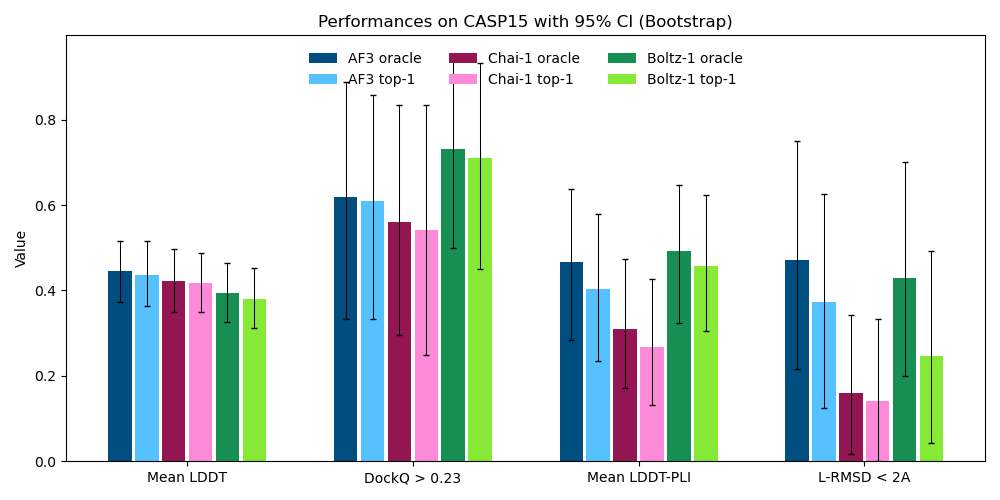
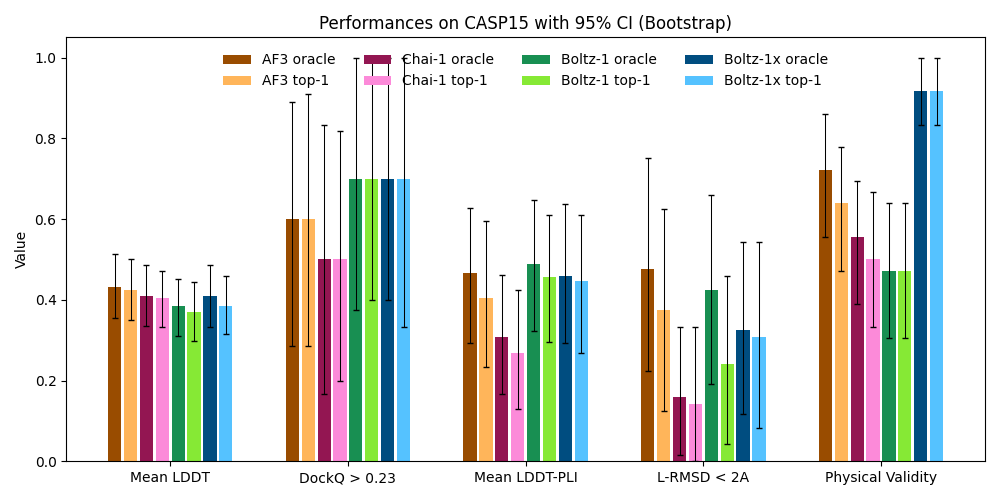
update plots

diff --git a/scripts/eval/aggregate_evals.py b/scripts/eval/aggregate_evals.py
@@ -294,7 +294,16 @@ def compute_boltz_metrics(preds, evals, name):
     return results
 
 
-def eval_models(chai_preds, chai_evals, af3_preds, af3_evals, boltz_preds, boltz_evals):
+def eval_models(
+    chai_preds,
+    chai_evals,
+    af3_preds,
+    af3_evals,
+    boltz_preds,
+    boltz_evals,
+    boltz_preds_x,
+    boltz_evals_x,
+):
     # Load preds and make sure we have predictions for all models
     chai_preds_names = {
         x.name.lower(): x
@@ -311,15 +320,22 @@ def eval_models(chai_preds, chai_evals, af3_preds, af3_evals, boltz_preds, boltz
         for x in Path(boltz_preds).iterdir()
         if not x.name.lower().startswith(".")
     }
+    boltz_preds_names_x = {
+        x.name.lower(): x
+        for x in Path(boltz_preds_x).iterdir()
+        if not x.name.lower().startswith(".")
+    }
 
     print("Chai preds", len(chai_preds_names))
     print("Af3 preds", len(af3_preds_names))
     print("Boltz preds", len(boltz_preds_names))
+    print("Boltzx preds", len(boltz_preds_names_x))
 
     common = (
         set(chai_preds_names.keys())
         & set(af3_preds_names.keys())
         & set(boltz_preds_names.keys())
+        & set(boltz_preds_names_x.keys())
     )
 
     # Remove examples in the validation set
@@ -371,12 +387,34 @@ def eval_models(chai_preds, chai_evals, af3_preds, af3_evals, boltz_preds, boltz
             print(f"Error evaluating Boltz {name}: {e}")
             continue
 
+        try:
+            boltz_results_x = compute_boltz_metrics(
+                boltz_preds_names_x[name],
+                boltz_evals_x,
+                name,
+            )
+        except Exception as e:
+            import traceback
+
+            traceback.print_exc()
+            print(f"Error evaluating Boltzx {name}: {e}")
+            continue
+
         for metric_name in af3_results:
             if metric_name in chai_results and metric_name in boltz_results:
                 if (
-                    af3_results[metric_name]["len"] == chai_results[metric_name]["len"]
-                    and af3_results[metric_name]["len"]
-                    == boltz_results[metric_name]["len"]
+                    (
+                        af3_results[metric_name]["len"]
+                        == chai_results[metric_name]["len"]
+                    )
+                    and (
+                        af3_results[metric_name]["len"]
+                        == boltz_results[metric_name]["len"]
+                    )
+                    and (
+                        af3_results[metric_name]["len"]
+                        == boltz_results_x[metric_name]["len"]
+                    )
                 ):
                     results.append(
                         {
@@ -426,6 +464,22 @@ def eval_models(chai_preds, chai_evals, af3_preds, af3_evals, boltz_preds, boltz
                             "value": boltz_results[metric_name]["top1"],
                         }
                     )
+                    results.append(
+                        {
+                            "tool": "Boltz-1x oracle",
+                            "target": name,
+                            "metric": metric_name,
+                            "value": boltz_results_x[metric_name]["oracle"],
+                        }
+                    )
+                    results.append(
+                        {
+                            "tool": "Boltz-1x top-1",
+                            "target": name,
+                            "metric": metric_name,
+                            "value": boltz_results_x[metric_name]["top1"],
+                        }
+                    )
                 else:
                     print(
                         "Different lengths",
@@ -434,6 +488,7 @@ def eval_models(chai_preds, chai_evals, af3_preds, af3_evals, boltz_preds, boltz
                         af3_results[metric_name]["len"],
                         chai_results[metric_name]["len"],
                         boltz_results[metric_name]["len"],
+                        boltz_results_x[metric_name]["len"],
                     )
             else:
                 print(
@@ -442,11 +497,47 @@ def eval_models(chai_preds, chai_evals, af3_preds, af3_evals, boltz_preds, boltz
                     metric_name,
                     metric_name in chai_results,
                     metric_name in boltz_results,
+                    metric_name in boltz_results_x,
                 )
 
     # Write the results to a file, ensure we only keep the target & metrics where we have all tools
     df = pd.DataFrame(results)
     return df
+
+
+def eval_validity_checks(df):
+    # Filter the dataframe to only include the targets in the validity checks
+    name_mapping = {
+        "af3": "AF3 top-1",
+        "chai": "Chai-1 top-1",
+        "boltz1": "Boltz-1 top-1",
+        "boltz1x": "Boltz-1x top-1",
+    }
+    top1 = df[df["model_idx"] == 0]
+    top1 = top1[["tool", "pdb_id", "valid"]]
+    top1["tool"] = top1["tool"].apply(lambda x: name_mapping[x])
+    top1 = top1.rename(columns={"tool": "tool", "pdb_id": "target", "valid": "value"})
+    top1["metric"] = "physical validity"
+    top1["target"] = top1["target"].apply(lambda x: x.lower())
+    top1 = top1[["tool", "target", "metric", "value"]]
+
+    name_mapping = {
+        "af3": "AF3 oracle",
+        "chai": "Chai-1 oracle",
+        "boltz1": "Boltz-1 oracle",
+        "boltz1x": "Boltz-1x oracle",
+    }
+    oracle = df[["tool", "model_idx", "pdb_id", "valid"]]
+    oracle = oracle.groupby(["tool", "pdb_id"])["valid"].max().reset_index()
+    oracle = oracle.rename(
+        columns={"tool": "tool", "pdb_id": "target", "valid": "value"}
+    )
+    oracle["tool"] = oracle["tool"].apply(lambda x: name_mapping[x])
+    oracle["metric"] = "physical validity"
+    oracle = oracle[["tool", "target", "metric", "value"]]
+    oracle["target"] = oracle["target"].apply(lambda x: x.lower())
+    out = pd.concat([top1, oracle])
+    return out
 
 
 def bootstrap_ci(series, n_boot=1000, alpha=0.05):
@@ -461,7 +552,7 @@ def bootstrap_ci(series, n_boot=1000, alpha=0.05):
         boot_means.append(sample.mean())
 
     boot_means = np.array(boot_means)
-    mean_val = np.mean(boot_means)
+    mean_val = np.mean(series)
     lower = np.percentile(boot_means, 100 * alpha / 2)
     upper = np.percentile(boot_means, 100 * (1 - alpha / 2))
     return mean_val, lower, upper
@@ -497,6 +588,8 @@ def plot_data(desired_tools, desired_metrics, df, dataset, filename):
         "Chai-1 top-1",
         "Boltz-1 oracle",
         "Boltz-1 top-1",
+        "Boltz-1x oracle",
+        "Boltz-1x top-1",
     ]
     plot_data = plot_data[tool_order]
     lower_data = lower_data[tool_order]
@@ -508,6 +601,7 @@ def plot_data(desired_tools, desired_metrics, df, dataset, filename):
         "rmsd<2": "L-RMSD < 2A",
         "lddt": "Mean LDDT",
         "dockq_>0.23": "DockQ > 0.23",
+        "physical validity": "Physical Validity",
     }
     plot_data = plot_data.rename(index=renaming)
     lower_data = lower_data.rename(index=renaming)
@@ -516,12 +610,14 @@ def plot_data(desired_tools, desired_metrics, df, dataset, filename):
 
     # Colors
     tool_colors = [
-        "#004D80",  # AF3 oracle
-        "#55C2FF",  # AF3 top-1
+        "#994C00",  # AF3 oracle
+        "#FFB55A",  # AF3 top-1
         "#931652",  # Chai-1 oracle
         "#FC8AD9",  # Chai-1 top-1
         "#188F52",  # Boltz-1 oracle
         "#86E935",  # Boltz-1 top-1
+        "#004D80",  # Boltz-1x oracle
+        "#55C2FF",  # Boltz-1x top-1
     ]
 
     fig, ax = plt.subplots(figsize=(10, 5))
@@ -559,7 +655,7 @@ def plot_data(desired_tools, desired_metrics, df, dataset, filename):
     ax.set_title(f"Performances on {dataset} with 95% CI (Bootstrap)")
 
     plt.tight_layout()
-    ax.legend(loc="lower center", bbox_to_anchor=(0.5, 0.85), ncol=3, frameon=False)
+    ax.legend(loc="lower center", bbox_to_anchor=(0.5, 0.85), ncols=4, frameon=False)
 
     plt.savefig(filename)
     plt.show()
@@ -567,6 +663,7 @@ def plot_data(desired_tools, desired_metrics, df, dataset, filename):
 
 def main():
     eval_folder = "../../boltz_results_final/"
+    output_folder = "../../boltz_results_final/"
 
     # Eval the test set
     chai_preds = eval_folder + "outputs/test/chai"
@@ -578,10 +675,27 @@ def main():
     boltz_preds = eval_folder + "outputs/test/boltz/predictions"
     boltz_evals = eval_folder + "evals/test/boltz"
 
+    boltz_preds_x = eval_folder + "outputs/test/boltzx/predictions"
+    boltz_evals_x = eval_folder + "evals/test/boltzx"
+
+    validity_checks = eval_folder + "physical_checks_test.csv"
+
+    df_validity_checks = pd.read_csv(validity_checks)
+    df_validity_checks = eval_validity_checks(df_validity_checks)
+
     df = eval_models(
-        chai_preds, chai_evals, af3_preds, af3_evals, boltz_preds, boltz_evals
+        chai_preds,
+        chai_evals,
+        af3_preds,
+        af3_evals,
+        boltz_preds,
+        boltz_evals,
+        boltz_preds_x,
+        boltz_evals_x,
     )
-    df.to_csv(eval_folder + "results_test.csv", index=False)
+
+    df = pd.concat([df, df_validity_checks]).reset_index(drop=True)
+    df.to_csv(output_folder + "results_test.csv", index=False)
 
     desired_tools = [
         "AF3 oracle",
@@ -590,10 +704,12 @@ def main():
         "Chai-1 top-1",
         "Boltz-1 oracle",
         "Boltz-1 top-1",
+        "Boltz-1x oracle",
+        "Boltz-1x top-1",
     ]
-    desired_metrics = ["lddt", "dockq_>0.23", "lddt_pli", "rmsd<2"]
+    desired_metrics = ["lddt", "dockq_>0.23", "lddt_pli", "rmsd<2", "physical validity"]
     plot_data(
-        desired_tools, desired_metrics, df, "PDB Test", eval_folder + "plot_test.png"
+        desired_tools, desired_metrics, df, "PDB Test", output_folder + "plot_test.pdf"
     )
 
     # Eval CASP
@@ -606,13 +722,30 @@ def main():
     boltz_preds = eval_folder + "outputs/casp15/boltz/predictions"
     boltz_evals = eval_folder + "evals/casp15/boltz"
 
+    boltz_preds_x = eval_folder + "outputs/casp15/boltzx/predictions"
+    boltz_evals_x = eval_folder + "evals/casp15/boltzx"
+
+    validity_checks = eval_folder + "physical_checks_casp.csv"
+
+    df_validity_checks = pd.read_csv(validity_checks)
+    df_validity_checks = eval_validity_checks(df_validity_checks)
+
     df = eval_models(
-        chai_preds, chai_evals, af3_preds, af3_evals, boltz_preds, boltz_evals
+        chai_preds,
+        chai_evals,
+        af3_preds,
+        af3_evals,
+        boltz_preds,
+        boltz_evals,
+        boltz_preds_x,
+        boltz_evals_x,
     )
-    df.to_csv(eval_folder + "results_casp.csv", index=False)
+
+    df = pd.concat([df, df_validity_checks]).reset_index(drop=True)
+    df.to_csv(output_folder + "results_casp.csv", index=False)
 
     plot_data(
-        desired_tools, desired_metrics, df, "CASP15", eval_folder + "plot_casp.png"
+        desired_tools, desired_metrics, df, "CASP15", output_folder + "plot_casp.pdf"
     )
 
 